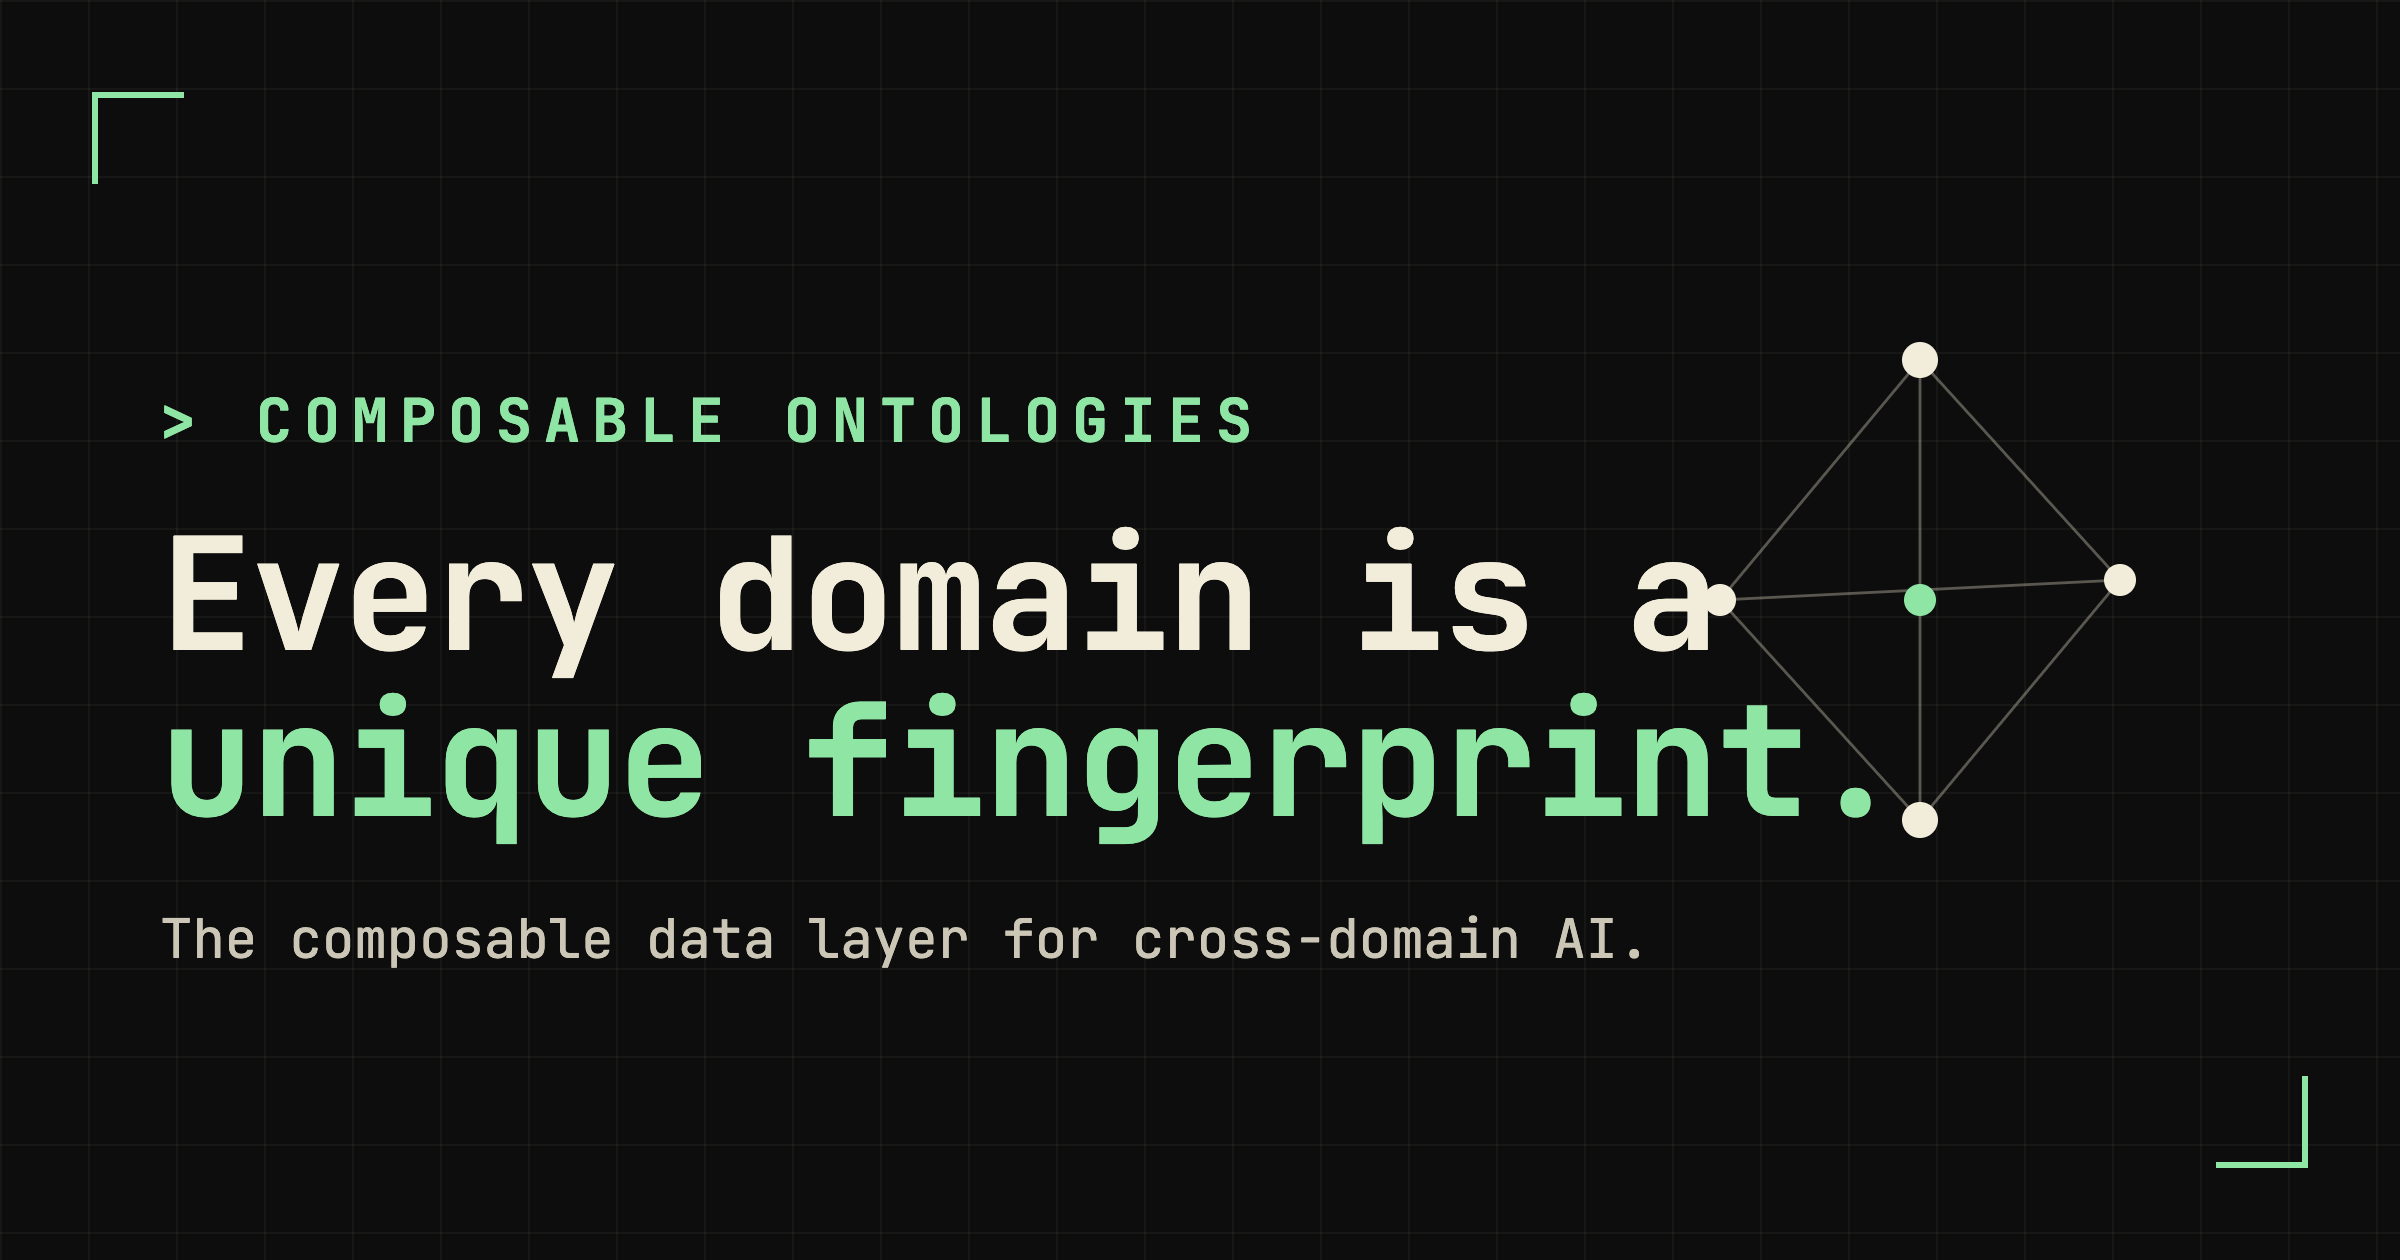
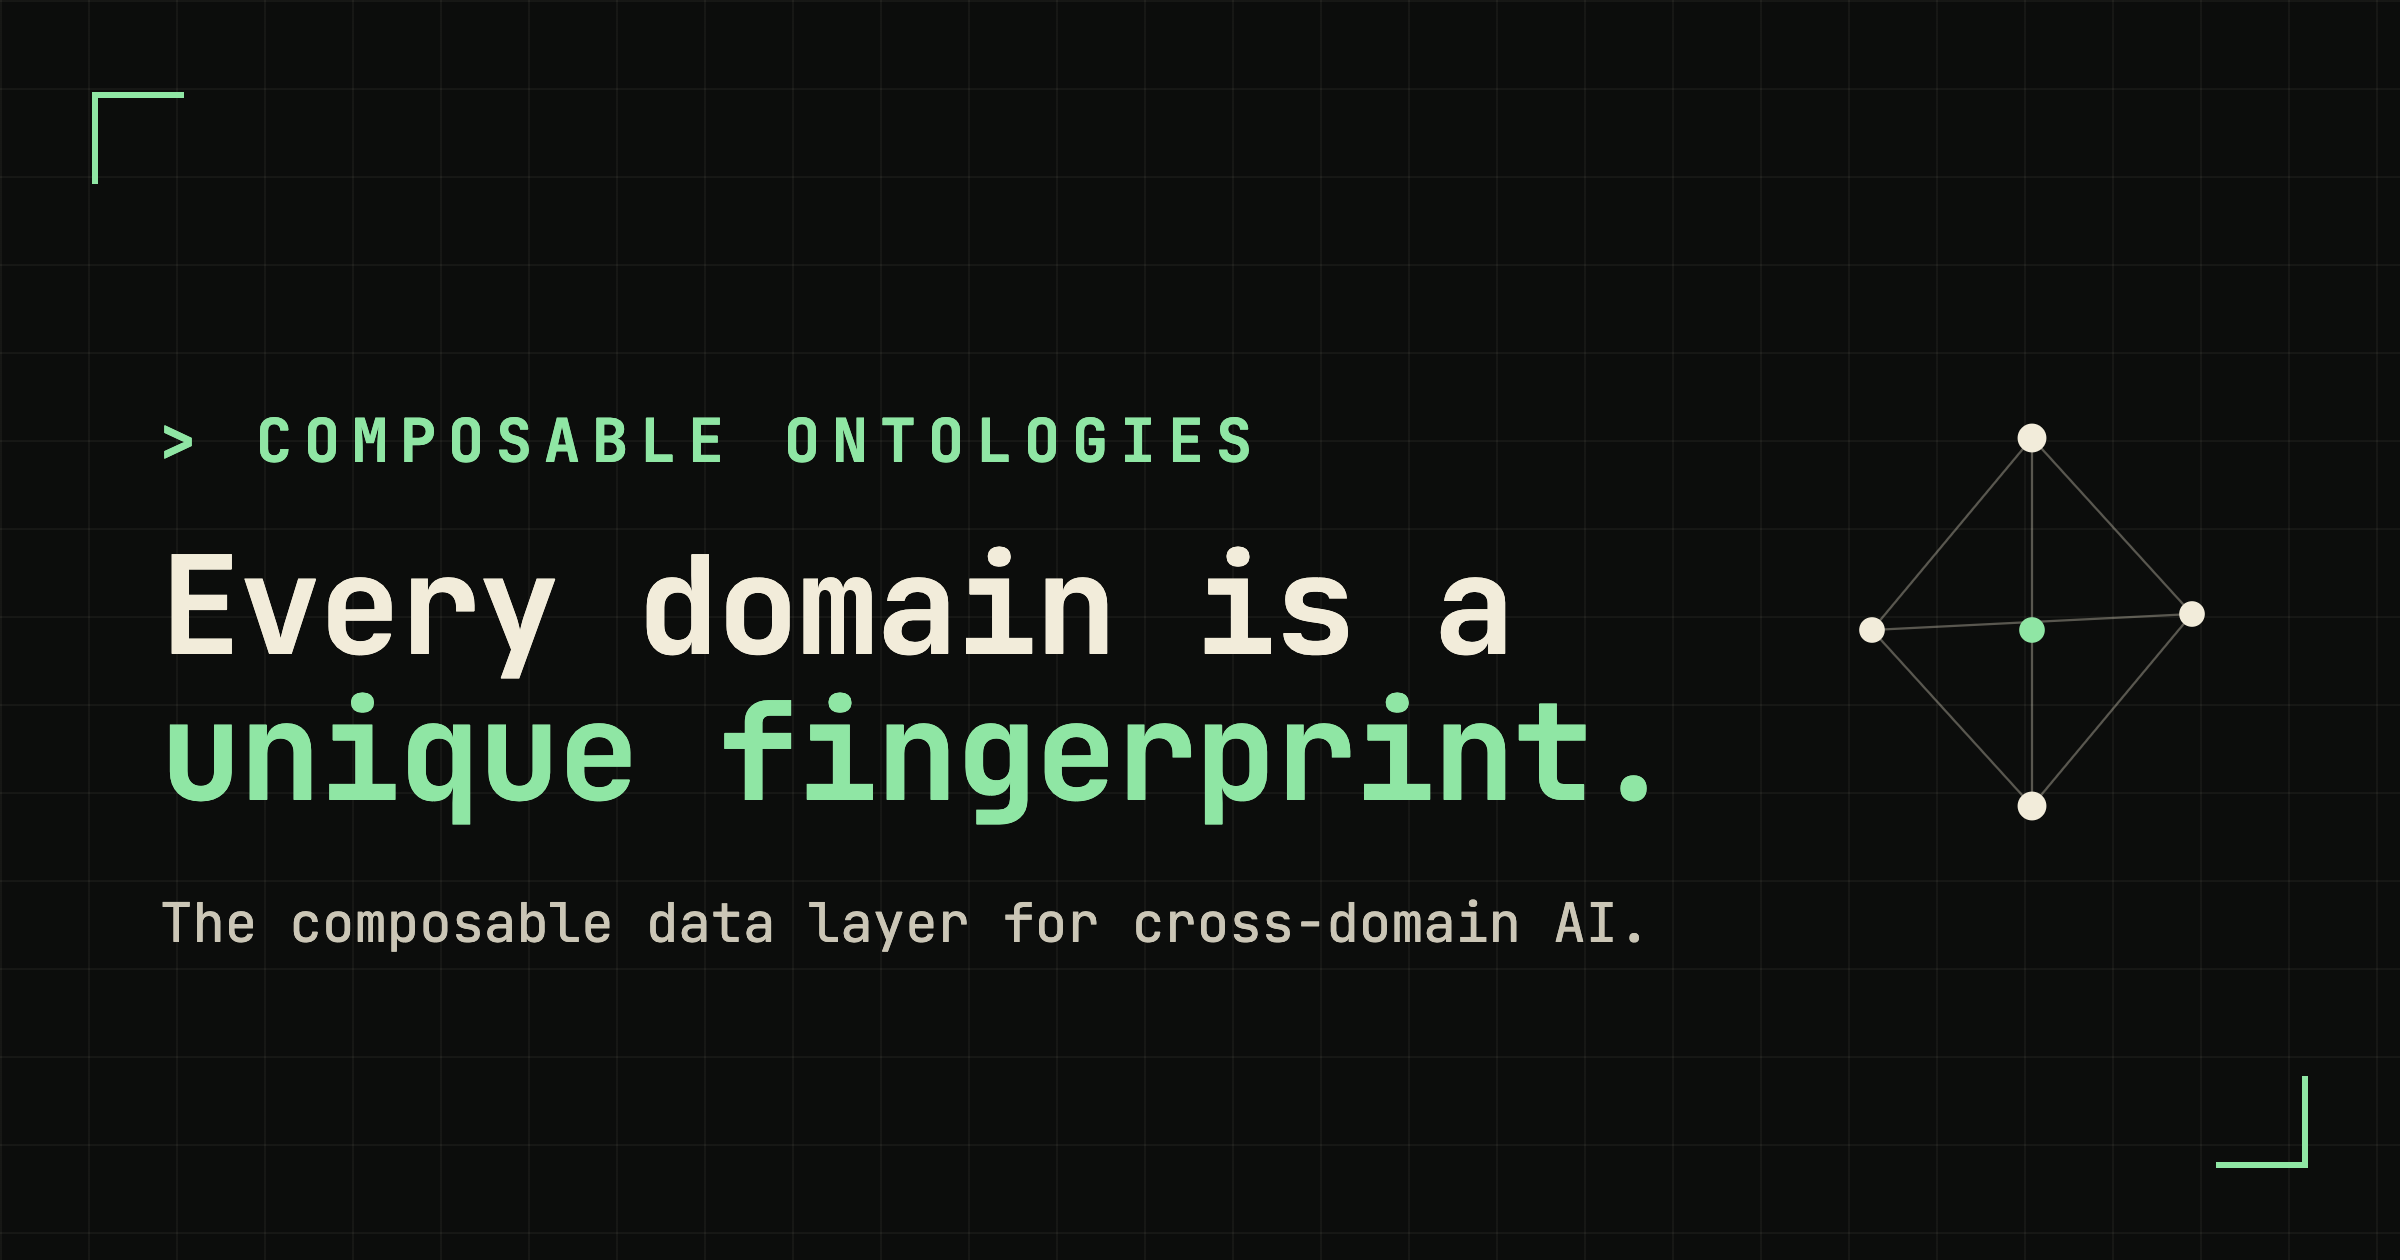
Fix OG layout: pull graph into right margin, clear of the headline
Cap headline width and shrink/move the node graph so the wordmark and
diagram no longer overlap in the 1200×630 share card.

Claude-Session: https://claude.ai/code/session_01Y97Wgc5WPdRydk6iVKp665

diff --git a/scripts/og-template.html b/scripts/og-template.html
@@ -38,15 +38,15 @@
       .bracket { position: absolute; width: 46px; height: 46px; border: 3px solid #8fe6a4; }
       .bracket.tl { top: 46px; left: 46px; border-right: none; border-bottom: none; }
       .bracket.br { bottom: 46px; right: 46px; border-left: none; border-top: none; }
-      .inner { position: absolute; left: 80px; top: 190px; }
+      .inner { position: absolute; left: 80px; top: 200px; width: 820px; }
       .eyebrow {
         color: #8fe6a4; font-size: 30px; letter-spacing: 6px; font-weight: 700;
       }
-      h1 { font-size: 78px; font-weight: 700; line-height: 1.06; margin-top: 26px; letter-spacing: -1px; }
+      h1 { font-size: 68px; font-weight: 700; line-height: 1.08; margin-top: 26px; letter-spacing: -1px; }
       h1 .a { color: #8fe6a4; }
       .sub { color: #cbc6b6; font-size: 27px; margin-top: 30px; }
-      /* mini graph, right */
-      svg.graph { position: absolute; right: 90px; top: 150px; }
+      /* mini graph, tucked into the right margin, clear of the text */
+      svg.graph { position: absolute; right: 64px; top: 195px; }
     </style>
   </head>
   <body>
@@ -58,7 +58,7 @@
         <h1>Every domain is a<br /><span class="a">unique fingerprint.</span></h1>
         <div class="sub">The composable data layer for cross-domain AI.</div>
       </div>
-      <svg class="graph" width="300" height="300" viewBox="0 0 300 300" aria-hidden="true">
+      <svg class="graph" width="240" height="240" viewBox="0 0 300 300" aria-hidden="true">
         <g stroke="rgba(233,226,205,0.35)" stroke-width="1.4" fill="none">
           <line x1="150" y1="30" x2="50" y2="150" /><line x1="150" y1="30" x2="250" y2="140" />
           <line x1="50" y1="150" x2="150" y2="260" /><line x1="250" y1="140" x2="150" y2="260" />
